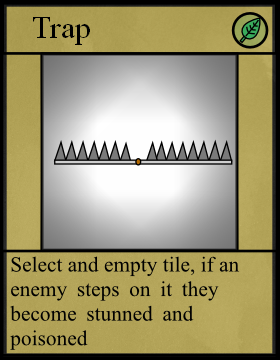
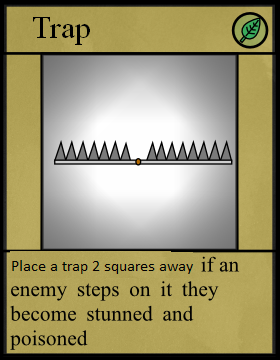
Added traps and fixed a few janky things with bolts and poison

Changed region(s): [[0.0286, 0.6722, 0.7143, 0.7639]]

diff --git a/src/Board.java b/src/Board.java
@@ -32,7 +32,7 @@ public class Board {
                 for(int j = 4;j>=0;j--){
                     squares[i].occupiedCharacter.elementalBoostsTimers[j]--;
                 }
-                squares[i].occupiedCharacter.stunned=false;
+                squares[i].occupiedCharacter.stunnedTimer-=1;
             }
         }
     }
@@ -42,18 +42,23 @@ public class Board {
         squares[playerLocation].occupiedCharacter.elementalBoostsTimers[element.ordinal()] = noOfTurns;
     }
 
+    public void setTrap(int relativeLocation){
+        if(!squares[playerLocation+relativeLocation].isOccupied){
+            squares[playerLocation+relativeLocation]=new Square(squares[playerLocation+relativeLocation].x,250,5,10,relativeLocation+playerLocation, Character.elementalType.EARTH);
+        }
+    }
 
 
     public void castBolt(int amount, Character.elementalType element, boolean stunFlag, boolean poisonFlag){
         int i = playerLocation+1;
         while (i < BOARDSIZE){
-            if (squares[i].isOccupied){
+            if (squares[i].isOccupied&&squares[i].occupiedCharacter.enemyType<5){
                 if(poisonFlag)
                     poisonSquare(i,amount);
                 else
                     damageSquare(amount,i-playerLocation,element);
                 if(stunFlag)
-                    stunCharacter(i-playerLocation);
+                    stunCharacter(i-playerLocation,1);
                 return;
             }
             i++;
@@ -62,10 +67,11 @@ public class Board {
 
     public void healCharacter(int relativeSquareNumber,int amount){
         squares[playerLocation+relativeSquareNumber].occupiedCharacter.heal(amount);
+        squares[playerLocation+relativeSquareNumber].updateTexture();
     }
 
-    public void stunCharacter(int relativeSquareNumber){
-        squares[playerLocation+relativeSquareNumber].occupiedCharacter.stunned=true;
+    public void stunCharacter(int relativeSquareNumber, int amount){
+        squares[playerLocation+relativeSquareNumber].occupiedCharacter.stunnedTimer = amount;
     }
 
     public void poisonSquare(int squareNumber, int amount){
@@ -92,6 +98,7 @@ public class Board {
     }
 
     public void playerMove(int distance){
+        int i;
         if ((playerLocation + distance)>=BOARDSIZE) {
             squares[playerLocation].moveContents(squares[BOARDSIZE-1]);
             playerLocation = BOARDSIZE - 1;
@@ -100,18 +107,32 @@ public class Board {
             squares[playerLocation].moveContents(squares[0]);
             playerLocation = 0;
         }
-        else if(!squares[playerLocation+distance].isOccupied){
-            squares[playerLocation].moveContents(squares[playerLocation+distance]);
-            playerLocation+=distance;
+        else{
+            for(i = 1; i <= distance;i++){
+                if(squares[playerLocation+i].isOccupied)
+                    break;
+            }
+            squares[playerLocation].moveContents(squares[playerLocation+i-1]);
+            playerLocation+=i-1;
         }
     }
 
     public void enemyTurn(){
         for(int i = 1; i<BOARDSIZE; i++) {
-            if ((squares[i].isOccupied) &&squares[i].occupiedCharacter.enemyType>1){
-                if(!squares[i].occupiedCharacter.stunned){
-                    if(squares[i-1].isOccupied&&squares[i-1].occupiedCharacter.getEnemyType()==1){
-                        damageSquare(2,0,squares[i].occupiedCharacter.ourElement);
+            if ((squares[i].isOccupied) &&squares[i].occupiedCharacter.enemyType>1&&squares[i].occupiedCharacter.enemyType<5){
+                if(squares[i].occupiedCharacter.stunnedTimer<=0){
+                    if(squares[i-1].isOccupied){
+                        switch (squares[i-1].occupiedCharacter.getEnemyType()){
+                            case 1:
+                                damageSquare(2,0,squares[i].occupiedCharacter.ourElement);
+                                break;
+                            case 5:
+                                poisonSquare(i,1);
+                                stunCharacter(i-playerLocation,2);
+                                squares[i].moveContents(squares[i-1]);
+                                break;
+                        }
+
                     }
                     else if(!squares[i-1].isOccupied){
                         squares[i].moveContents(squares[i - 1]);

diff --git a/src/Driver.java b/src/Driver.java
@@ -23,7 +23,7 @@ public class Driver
         //
         RenderWindow window = new RenderWindow( );
         window.create(new VideoMode(screenWidth, screenHeight),"Card Quest", WindowStyle.DEFAULT);
-        window.setFramerateLimit(30); // 60FPS master-race
+        window.setFramerateLimit(framerate); // 60FPS master-race
         boolean playersTurn = true;
         ArrayList<Button> buttons = new ArrayList<Button>();
         Board gameBoard = new Board();
@@ -167,6 +167,9 @@ public class Driver
                 break;
             case 15:
                 gameBoard.playerMove(3);
+                break;
+            case 17:
+                gameBoard.setTrap(2);
                 break;
             case 19:
                 gameBoard.setElementalBoosts(3, Character.elementalType.WATER, 2);

diff --git a/src/Character.java b/src/Character.java
@@ -10,7 +10,7 @@ public class Character {
     int[] elementalBoosts = new int[5];
     int[] elementalBoostsTimers = new int[5];
     int poisonStacks = 0;
-    boolean stunned = false;
+    int stunnedTimer = 0;
 
     public Character(int hp, int enemyType, elementalType type){
         this.hp = hp;
